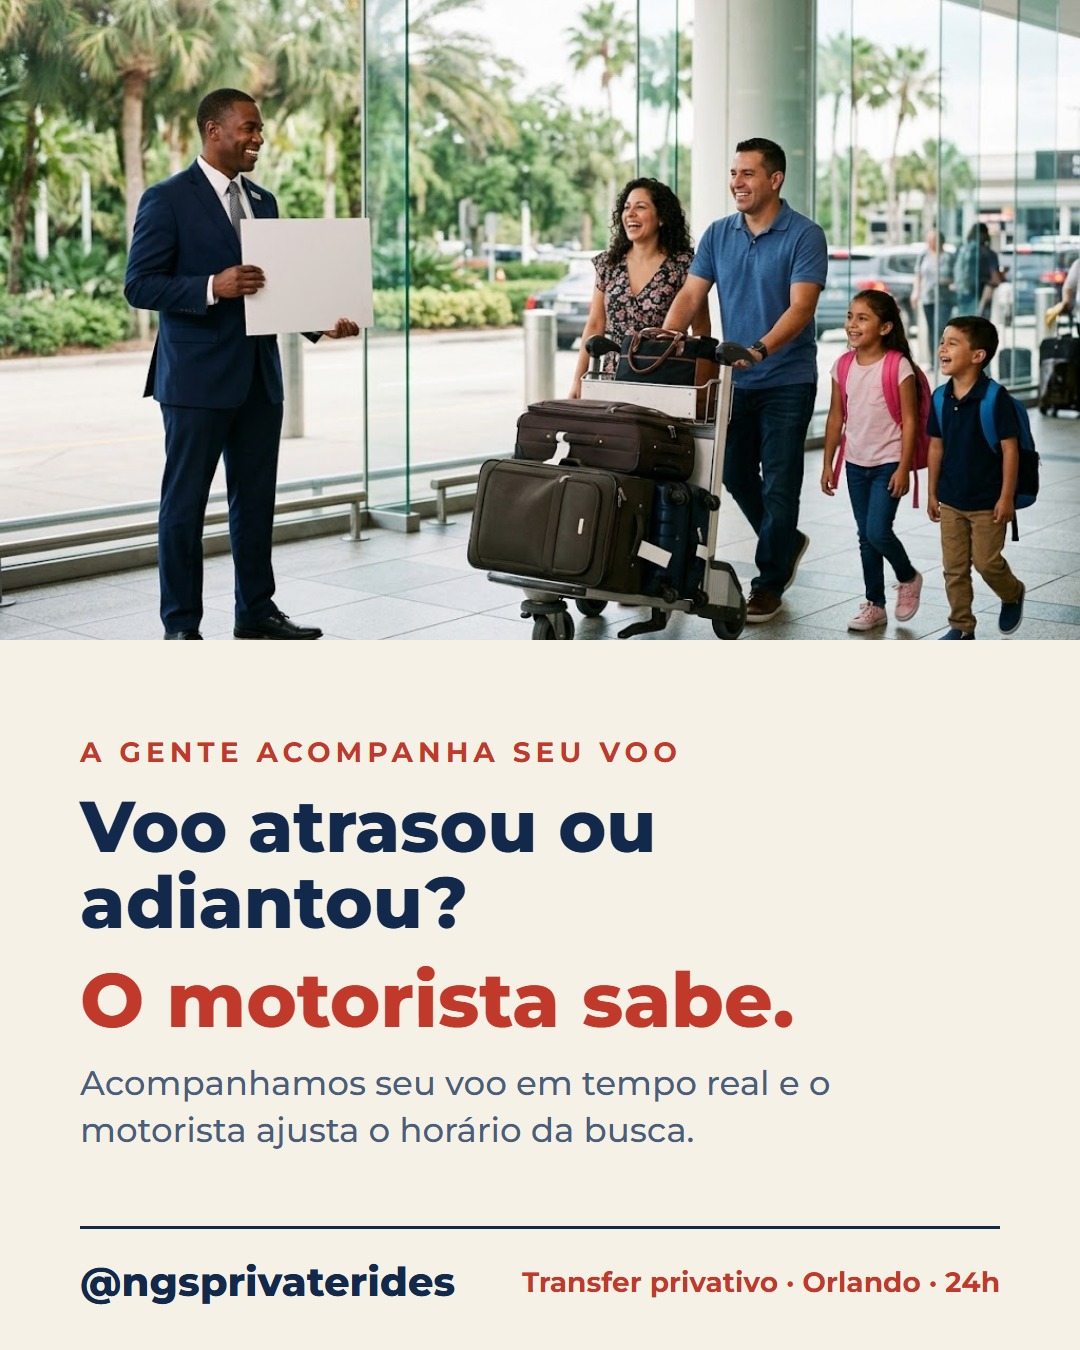
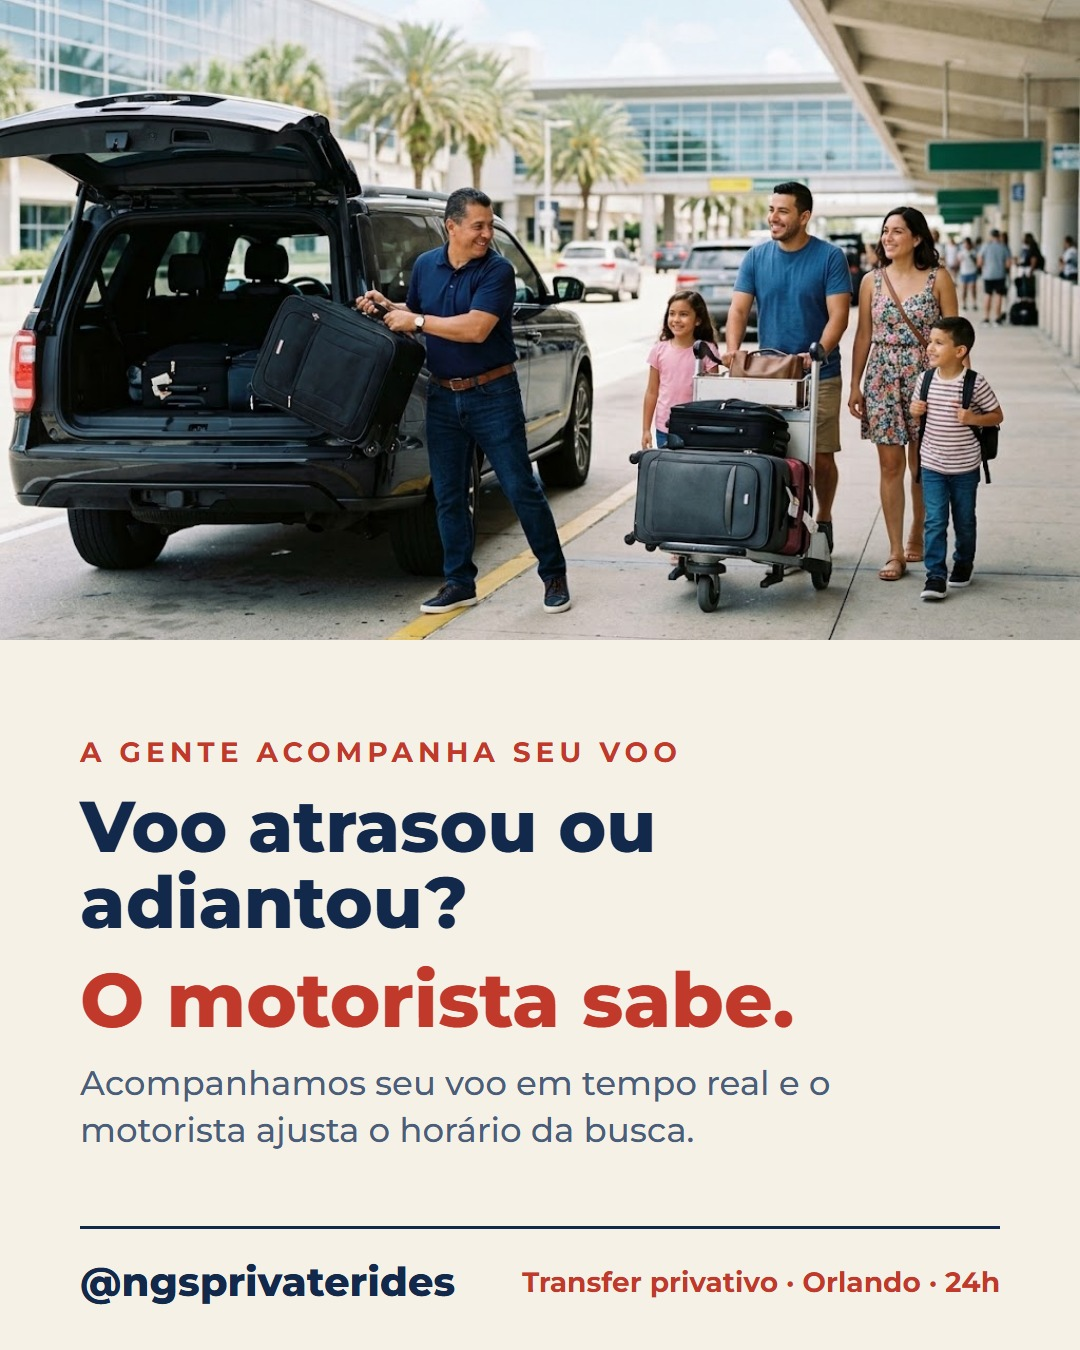
pt-voo: foto nova (motorista de polo e jeans, na calçada do desembarque); legenda sem 'esperando na chegada'

diff --git a/tools/gemini-scenes.js b/tools/gemini-scenes.js
@@ -12,10 +12,17 @@ const scenes = {
   'hotel-entrance': 'Entrance of an upscale Orlando resort hotel with a porte-cochere: a bellman with a brass luggage cart full of suitcases next to a clean black SUV, a family checking in. Tropical landscaping, bright day.',
   'stroller': 'A friendly driver in a navy polo folding a baby stroller and placing it into the trunk of a clean black minivan while a young mother holds her toddler nearby, smiling, in front of a Florida vacation home with palm trees. Natural afternoon light.',
   'water-service': 'Inside a clean premium black SUV: a professional chauffeur in a dark suit, turned from the front seat, handing a cold bottle of water to a smiling woman passenger in the tan leather back seat. Soft daylight through tinted windows.',
+  'curb-welcome': 'Orlando airport arrivals curb OUTSIDE the terminal, bright day: a friendly driver dressed smart casual (navy polo shirt tucked into dark blue jeans, brown belt, clean sneakers, no suit, no tie, no jacket) standing next to the open trunk of a clean black SUV parked at the curb, smiling and lifting a suitcase into the trunk while a happy Latin family (parents and two kids) with a luggage cart walks up to him from the sidewalk. Terminal glass facade and palm trees blurred behind, cars at the curb. No signs held by anyone.',
   'park-dropoff': 'A family with two kids wearing sun hats and small backpacks stepping out of a clean black SUV at a theme park guest drop-off area in Florida, excited, the driver holding the door. Colorful entrance gates blurred in the background, no recognizable characters, castles or logos. Sunny morning.',
   'flight-tracking': 'Orlando airport arrivals area, bright day: a professional chauffeur in a dark navy suit standing near the arrivals exit, checking a flight tracking app on his smartphone (screen facing him, not visible to camera), calm and attentive. Travelers with rolling luggage walking in the soft-focus background, large windows with palm trees outside.',
   'arrivals-welcome': 'Airport arrivals exit in Orlando: a smiling professional driver in a dark suit holding a blank white welcome sign with no writing, greeting a happy Latin family (parents and two kids) pushing a luggage cart toward him. Warm, welcoming mood, natural daylight, palm trees through the glass.',
   'holiday-home':'Evening in front of a Florida vacation home decorated with warm Christmas lights, palm trees wrapped in string lights, a clean black SUV parked in the driveway, a family arriving with suitcases, festive and warm mood.',
+  'ad-resident': 'Morning in the driveway of a tidy single-story Central Florida retirement-community home with palm trees and manicured lawn: a professional chauffeur in a navy polo shirt holding open the rear passenger door of a clean black luxury SUV for a cheerful senior couple in their sixties, a rolling suitcase beside them, relaxed and confident mood. Soft warm sunrise light, three-quarter view.',
+  'ad-carseat': 'Interior of a clean premium black luxury SUV photographed from the open rear door: a child car safety seat properly installed on the tan leather back seat, seatbelts neat, bottle of water in the cup holder, soft daylight through lightly tinted windows, tidy and upscale, no people.',
+  'ad-resident-a': 'Morning in the driveway of a tidy single-story Central Florida retirement-community home with palm trees: a professional chauffeur in a navy polo shirt holding open the rear passenger door of a clean black full-size luxury SUV for a cheerful senior couple in their sixties, a rolling suitcase beside them. The SUV is a correct, realistic, standard production full-size SUV with accurate proportions and intact bodywork: four normal doors, a single solid rear tailgate at the back, no extra doors on the rear, no distorted or duplicated panels. Three-quarter FRONT view with the front of the SUV nearest the camera. Soft warm sunrise light, relaxed confident mood.',
+  'fleet-palms-a': 'Wide landscape 16:9 composition. Four clean, glossy black passenger vehicles parked side by side in a neat row on clean light-grey pavement, slight three-quarter front view: a full-size luxury sedan, a full-size luxury SUV, a modern minivan, and a high-roof passenger van. Behind them a line of tall royal palm trees against a clear deep-blue Florida sky, lush green hedge at their base. Bright late-morning sun, crisp reflections on the paint. Every vehicle is a correct, realistic, standard production model with accurate proportions, symmetric headlights, four round wheels, intact bodywork, no duplicated or melted panels. Tack-sharp focus across all four vehicles, high detail, professional automotive fleet photo, no people.',
+  'fleet-palms-b': 'Wide landscape 16:9 composition, eye-level automotive photograph. A fleet of four clean black vehicles lined up diagonally in a row on a clean paved lot: luxury sedan in front, then a full-size SUV, a minivan and a high-roof passenger van at the back. Tall royal palm trees and a blue sky with a few soft white clouds behind, warm golden-hour side light, long soft shadows. Vehicles are realistic standard production models with accurate proportions, correct wheels and intact bodywork, no distortion. Sharp focus, high resolution detail, premium chauffeur-service advertising photo, no people.',
+  'ad-resident-b':'Morning in front of a tidy single-story Central Florida retirement-community home with palm trees: a professional chauffeur in a navy polo shirt warmly greeting a cheerful senior couple in their sixties next to a clean black luxury SUV, a rolling suitcase beside them. Tight composition showing only the front half of the SUV (hood, front door, side mirror) so the rear of the vehicle is out of frame. Realistic standard SUV bodywork, no distortion. Soft warm sunrise light, friendly mood.',
 };
 module.exports = { scenes };
 if (require.main === module) {

diff --git a/tools/posts.js b/tools/posts.js
@@ -77,10 +77,10 @@ const posts = [
     en: `Booking takes about as long as reading this.\n\n1. Go to ngsprivaterides.com/book-now\n2. Enter pickup and drop-off\n3. Pick your vehicle\n4. Pay online\n\nYou get the confirmation by email. Questions? Text or WhatsApp us.`,
     pt: `Reservar leva o tempo de ler este post.\n\n1. Entre em ngsprivaterides.com/book-now\n2. Coloque origem e destino\n3. Escolha o veículo\n4. Pague online\n\nA confirmação chega por e-mail. Dúvida? Chama no WhatsApp.` },
 
-  { slug: 'pt-voo', lang: 'pt', type: 'card', photo: 'arrivals-welcome.jpg',
+  { slug: 'pt-voo', lang: 'pt', type: 'card', photo: 'curb-welcome.jpg',
     label: 'A GENTE ACOMPANHA SEU VOO', headline: 'Voo atrasou ou adiantou?', accent: 'O motorista sabe.',
     body: 'Acompanhamos seu voo em tempo real e o motorista ajusta o horário da busca.',
-    pt: `Medo de o voo atrasar e o motorista ir embora? Com a NGS isso não acontece.\n\nA gente acompanha seu voo em tempo real. Atrasou, adiantou, tanto faz: o motorista ajusta o horário e está te esperando na chegada.\n\nNa reserva, mande o número do voo. O resto é com a gente.`,
+    pt: `Medo de o voo atrasar e o motorista ir embora? Com a NGS isso não acontece.\n\nA gente acompanha seu voo em tempo real. Atrasou, adiantou, tanto faz: o motorista ajusta o horário e está te esperando do lado de fora, na calçada do desembarque.\n\nNa reserva, mande o número do voo. O resto é com a gente.`,
     en: `Worried your flight runs late and the driver leaves? Not with us. We track your flight in real time and adjust the pickup.` },
 
   { slug: 'tip-cruise', lang: 'en', type: 'card', photo: 'cruise.jpg',

diff --git a/cards/pt-voo.html b/cards/pt-voo.html
@@ -34,4 +34,4 @@ body.ph{padding:0}
 .ph .row{font-size:40px;padding:10px 0}
 .ph .row b{font-size:50px}
 .ph footer{margin-top:24px;padding:28px 0 44px}
-</style></head><body class="ph"><div class="photo" style="background-image:url('../photos/arrivals-welcome.jpg')"></div><div class="panel"><main><div class="tag">A GENTE ACOMPANHA SEU VOO</div><h1>Voo atrasou ou adiantou?</h1><div class="accent">O motorista sabe.</div><p>Acompanhamos seu voo em tempo real e o motorista ajusta o horário da busca.</p></main><footer><b>@ngsprivaterides</b><small>Transfer privativo · Orlando · 24h</small></footer></div></body></html>
+</style></head><body class="ph"><div class="photo" style="background-image:url('../photos/curb-welcome.jpg')"></div><div class="panel"><main><div class="tag">A GENTE ACOMPANHA SEU VOO</div><h1>Voo atrasou ou adiantou?</h1><div class="accent">O motorista sabe.</div><p>Acompanhamos seu voo em tempo real e o motorista ajusta o horário da busca.</p></main><footer><b>@ngsprivaterides</b><small>Transfer privativo · Orlando · 24h</small></footer></div></body></html>

diff --git a/preview.html b/preview.html
@@ -169,7 +169,7 @@ WhatsApp (321) 317-7254 (falamos português)
 #DisneyWorld #OrlandoVacation #KissimmeeFL #PrivateTransfer #MCOAirport</pre></div></div>
 <div class="p"><img src="img/pt-voo.jpg"><div><b>#11 · 2026-10-27 · pt-voo</b><pre>Medo de o voo atrasar e o motorista ir embora? Com a NGS isso não acontece.
 
-A gente acompanha seu voo em tempo real. Atrasou, adiantou, tanto faz: o motorista ajusta o horário e está te esperando na chegada.
+A gente acompanha seu voo em tempo real. Atrasou, adiantou, tanto faz: o motorista ajusta o horário e está te esperando do lado de fora, na calçada do desembarque.
 
 Na reserva, mande o número do voo. O resto é com a gente.
 

diff --git a/tools/set-photos.js b/tools/set-photos.js
@@ -18,7 +18,7 @@ const map = {
   'list-areas': 'community-aerial.jpg', 'card-local': 'community-aerial.jpg',
   'tip-luggage-hold': 'hotel-entrance.jpg',
   // voo (19/10): substituiram tip-return e tip-stroller
-  'flight-delay': 'flight-tracking.jpg', 'pt-voo': 'arrivals-welcome.jpg',
+  'flight-delay': 'flight-tracking.jpg', 'pt-voo': 'curb-welcome.jpg',
   'list-what': 'water-service.jpg', 'tip-park': 'park-dropoff.jpg',
   'card-winter': 'holiday-home.jpg',
 };
